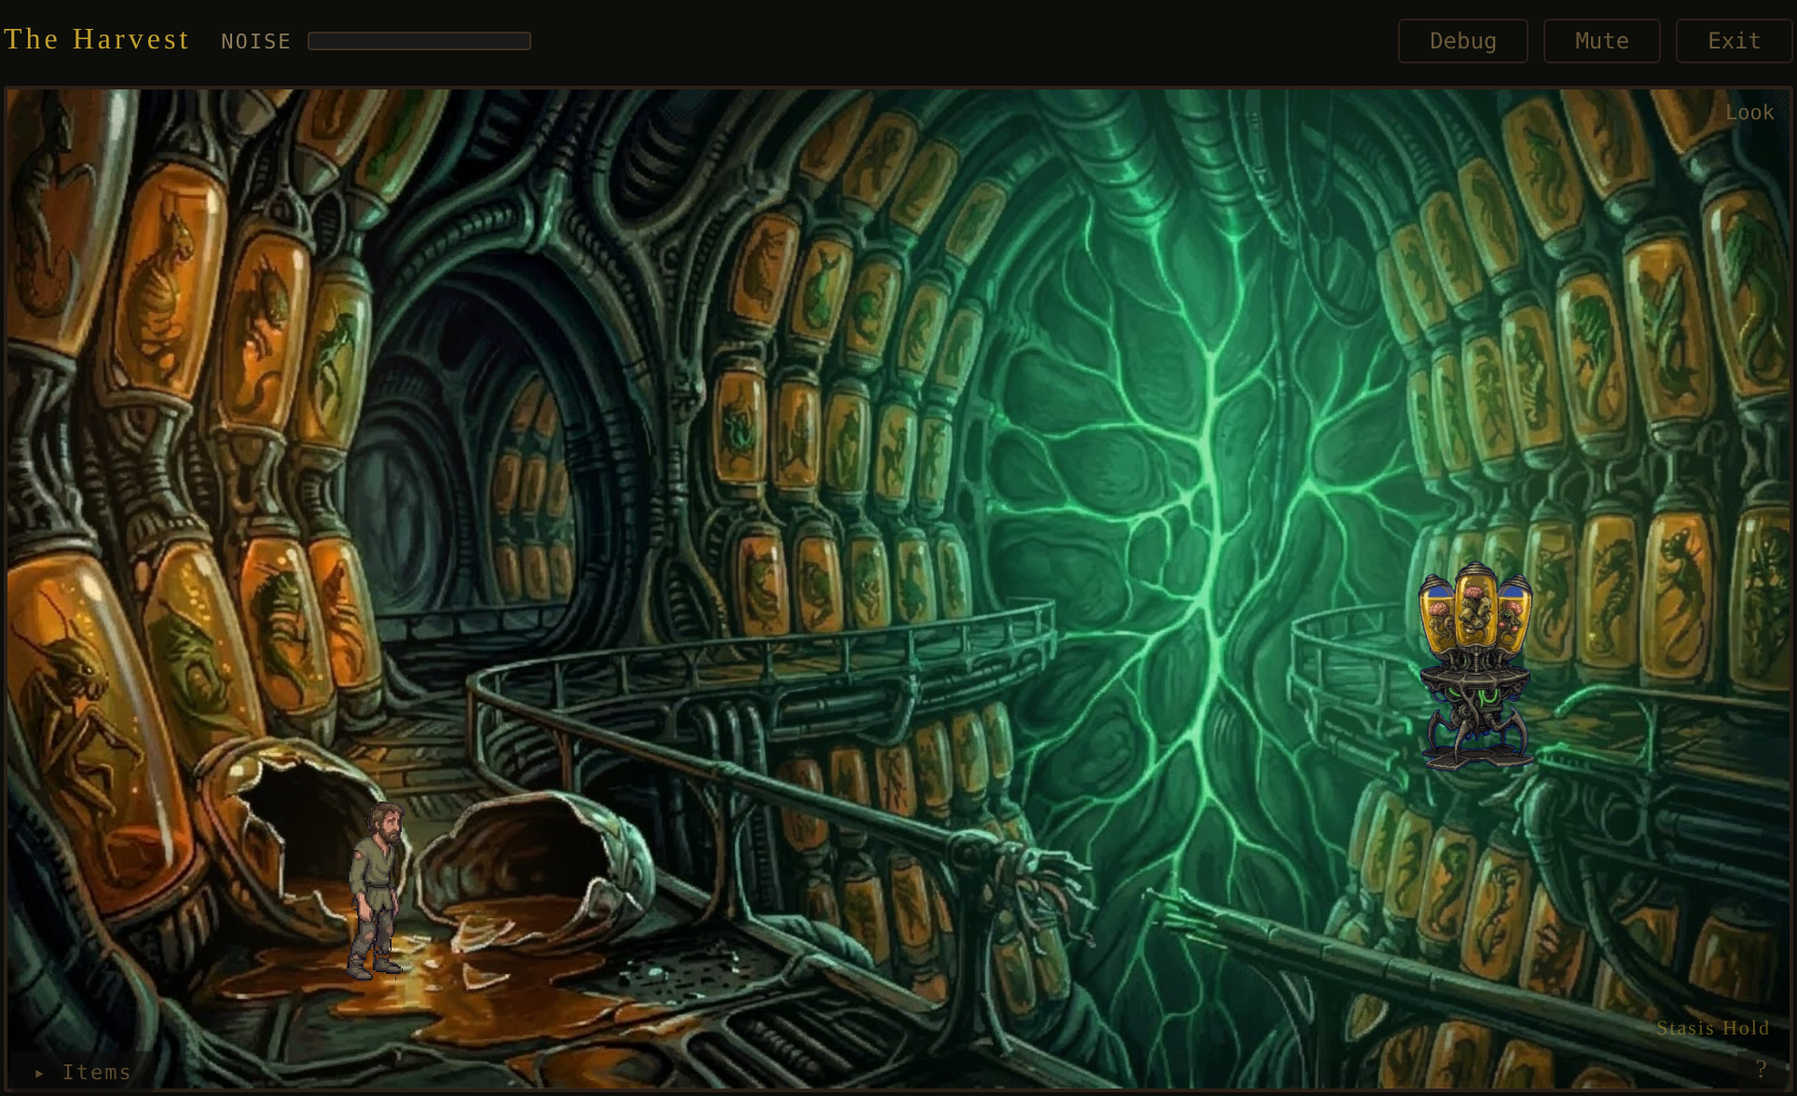
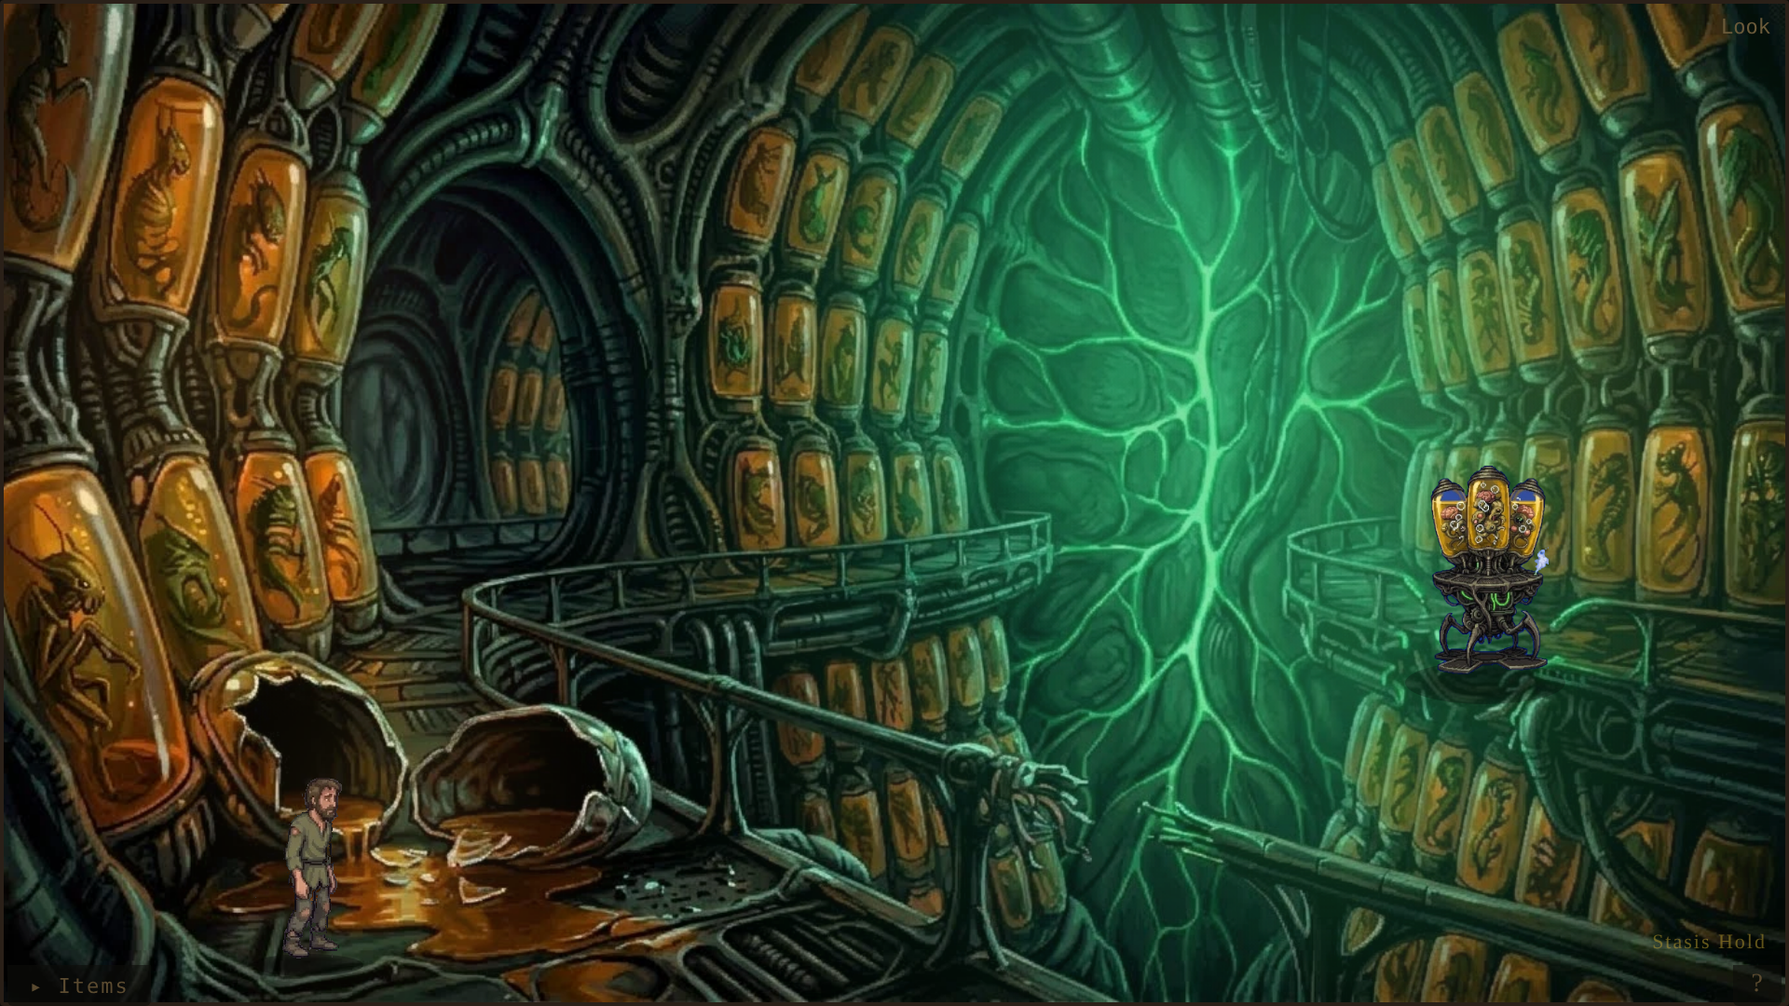
Fresh screenshots + documentation overhaul for polished GitHub presence
Screenshots (20 total):
- 10 game screenshots: all Act 1 rooms with character sprites, shadows,
  animated NPCs, room name labels, and immersive HUD
- 4 dev panel screenshots: Views, Objects, Character, Sprites tabs
- 3 editor screenshots: overview with sprites, hotspot layout, shadow sliders
- 3 updated from old versions

README.md:
- Updated hero screenshot captions to mention sprites and shadows
- Added Morgue + Specimen Archive/Airlock Bay screenshot pairs
- Added dev panel + editor screenshot gallery under Developer Tools
- Added Ambient Audio and Sprite Shadows feature sections
- Updated Act 1 details (11 items, per-room audio, directional shadows)
- Added Audio & Atmosphere to "What You Can Build" section
- Updated roadmap with completed items (audio, shadows, editor, voiceover)
- Added attribution for 4 new audio files

ADVENTURE_BUILDER.md:
- Added hero screenshot at top (Feeding Station with animated NPC)
- Added dev panel screenshots to Developer Tools section
- Added editor screenshots with shadow controls panel
- Updated shadow properties to document skew_x for directional shadows

TECHNICAL_DEEP_DIVE.md:
- Added hero screenshot (Objects inspector with debug overlays)
- Expanded Audio System to document per-view ambient audio overrides,
  crossfading, empty array for silence, and sound effects config

Claude-Session: https://claude.ai/code/session_013nLT1EESxv1f88E9FZS33G

diff --git a/README.md b/README.md
@@ -7,7 +7,7 @@ Drop a scenario JSON, background art, and audio into a folder. The engine render
 <p align="center">
   <img src="docs/images/screenshot-harvest-gameplay.png" width="800" alt="Gameplay — The Harvest, Act 1: Stasis Hold" />
   <br />
-  <em>The Harvest — waking beside a shattered stasis pod aboard an alien harvester ship</em>
+  <em>The Harvest — waking beside a shattered stasis pod aboard an alien harvester ship. Character sprites with directional shadows, animated cataloguer robot, immersive HUD overlay.</em>
 </p>
 
 ---
@@ -37,26 +37,33 @@ The engine is completely generic. It reads your JSON, builds the game state, ren
 <p align="center">
   <img src="docs/images/screenshot-corridor.png" width="800" alt="Containment Corridor" />
   <br />
-  <em>Containment Corridor — the central hub with five branching passages</em>
+  <em>Containment Corridor — the central hub with five branching passages, vent grate sprite, and a lurking shadow cat</em>
 </p>
 
 <p align="center">
   <img src="docs/images/screenshot-feeding-station.png" width="800" alt="Feeding Station with prisoner NPC" />
   <br />
-  <em>Feeding Station — animated prisoner NPC paces behind an energy barrier</em>
+  <em>Feeding Station — animated alien prisoner NPC behind an energy barrier with branching dialogue</em>
 </p>
 
 <p align="center">
-  <img src="docs/images/screenshot-interaction.png" width="800" alt="Closeup interaction with cataloguer robot" />
+  <img src="docs/images/screenshot-morgue.png" width="800" alt="Morgue — cold storage" />
   <br />
-  <em>Closeup overlay — examining the cataloguer robot's specimen tanks reveals a section code</em>
+  <em>Morgue — dead silence contrasts the ship's ambient hum. Specimen drawers and a neural tendril to collect.</em>
 </p>
 
 <p align="center">
   <img src="docs/images/screenshot-security-hub.png" width="400" alt="Security Hub" />
   <img src="docs/images/screenshot-processing-lab.png" width="400" alt="Processing Lab" />
   <br />
-  <em>Security Hub and Processing Lab — interconnected puzzle rooms</em>
+  <em>Security Hub and Processing Lab — interconnected puzzle rooms with distinct ambient audio</em>
+</p>
+
+<p align="center">
+  <img src="docs/images/screenshot-specimen-archive.png" width="400" alt="Specimen Archive" />
+  <img src="docs/images/screenshot-airlock.png" width="400" alt="Airlock Bay" />
+  <br />
+  <em>Specimen Archive (holographic display sprite) and Airlock Bay — the Act 1 finale</em>
 </p>
 
 ---
@@ -149,9 +156,11 @@ The schema supports **30+ proven design patterns** drawn from classic adventures
 
 **Narrative Systems** — Branching dialogue with conditional choices, multiple solution paths, progressive per-room hints, win/lose conditions with custom endings, phase-based story progression, ambient text and audio, closeup detail images.
 
-**Character & NPC Systems** — Sierra-style sprite sheet characters with animated walk cycles and static poses, object sprites for animated world entities (pacing prisoners, spinning holograms, scanning robots), per-view character placement, dynamic sprite changes via effects.
+**Character & NPC Systems** — Sierra-style sprite sheet characters with animated walk cycles and static poses, object sprites for animated world entities (pacing prisoners, spinning holograms, scanning robots), per-view character placement, dynamic sprite changes via effects, configurable directional shadows with per-view overrides.
 
-**Advanced Features** — AI antagonist (patrol timers, noise thresholds, evidence awareness, personality), stealth system (hiding spots, noise tracking, detection), timed events, hotspot animations (glimmer, pulse), ambient audio layers, 14 condition types with composites (`any_of`, `all_of`), 20+ effect types.
+**Audio & Atmosphere** — Per-room ambient audio with automatic crossfading on navigation, layered ambient tracks, sound effects on item pickup and room transitions, JSON-driven ambient lighting with pulsing light sources.
+
+**Advanced Features** — AI antagonist (patrol timers, noise thresholds, evidence awareness, personality), stealth system (hiding spots, noise tracking, detection), timed events, hotspot animations (glimmer, pulse), 14 condition types with composites (`any_of`, `all_of`), 20+ effect types.
 
 ---
 
@@ -182,12 +191,13 @@ The schema supports **30+ proven design patterns** drawn from classic adventures
 A full-length adventure spanning **5 acts, 49 views, and 7 possible endings** including a hidden ending that rewards empathy across the entire game. The player wakes in a stasis pod aboard an alien harvester ship, escapes containment, navigates the ship, descends to a dying planet, explores a dead city, and confronts the parasitic Convergence in its nexus.
 
 **Act 1 is fully playable** with:
-- **9 rooms** — Stasis Hold, Containment Corridor, Processing Lab, Security Hub, Feeding Station, Morgue, Specimen Archive, Ventilation Shaft, Airlock Bay
-- **9 collectible items** — pod glass shard, stasis fluid vial, specimen tag, surgical probe, containment key card, nutrient paste tube, severed neural tendril, personal log crystal, ventilation map
-- **Animated NPC** — caged prisoner with 4-frame pacing animation behind an energy barrier
+- **9 rooms + 1 closeup** — Stasis Hold, Containment Corridor, Processing Lab, Security Hub, Feeding Station, Morgue, Specimen Archive, Ventilation Shaft, Airlock Bay, plus an interactive cataloguer closeup sub-view
+- **11 collectible items** — pod glass shard, stasis fluid vial, specimen tag, surgical probe, containment key card, nutrient paste tube, severed neural tendril, personal log crystal, ventilation map, and more
+- **Animated NPCs** — caged alien prisoner (pacing animation), cataloguer robot (static sprite), holographic display (spinning planets), shadow cat, vent cover grate
 - **Branching dialogue** — 4-way conversation choices that set different bond values affecting future acts
 - **Puzzle chains** — cataloguer code → lab sequence → security override → vent access → airlock
-- **Closeup interactions** — specimen tanks, holographic displays
+- **Per-room ambient audio** — distinct soundscapes per room (lab ambience, industrial ventilation, eerie harmonics, dead silence in the morgue)
+- **Directional character shadows** — skewed to match each room's lighting
 - **Complete walkthrough** at [`scenarios/the-harvest/walkthrough.md`](scenarios/the-harvest/walkthrough.md)
 
 <p align="center">
@@ -206,10 +216,10 @@ A full-length adventure spanning **5 acts, 49 views, and 7 possible endings** in
 Messages overlay on the game viewport with a semi-transparent backdrop instead of a dedicated panel. Inventory is a collapsible drawer with a toggle tab. Progressive hints float at the corner. Room names appear subtly in gold text. No UI elements below the viewport — full immersion.
 
 ### Character Sprites
-Sierra-style sprite sheet rendering on top of backgrounds. Walk cycles, static poses, per-view placement, dynamic state changes. Characters are positioned in the 960&times;720 coordinate space and rendered with `image-rendering: pixelated` for crisp pixel art.
+Sierra-style sprite sheet rendering on top of backgrounds. Walk cycles, static poses, per-view placement, dynamic state changes via effects. Characters are positioned in the 960&times;720 coordinate space and rendered with `image-rendering: pixelated` for crisp pixel art. Configurable directional shadows with offset, opacity, size, and skew — global defaults with per-view overrides.
 
 ### Object Sprites
-Animated sprite sheets on world objects — pacing prisoners, spinning holograms, scanning robots. Defined via `sprite` field in object JSON with frame dimensions, animation rate, and scale. Bottom-center anchored for natural grounding.
+Animated sprite sheets on world objects — pacing prisoners, spinning holograms, scanning robots. Defined via `sprite` field in object JSON with frame dimensions, animation rate, and scale. Bottom-center anchored with JSON-configurable shadows matching the character shadow system.
 
 ### Closeup Overlays
 Detail images displayed in a dismissable framed overlay for examining objects up close. The cataloguer robot in The Harvest shows a three-tank specimen closeup with data plates revealing the section code needed for the processing lab keypad.
@@ -217,14 +227,34 @@ Detail images displayed in a dismissable framed overlay for examining objects up
 ### Dialogue Choices
 Branching conversation system via `show_dialogue` effect. Each choice has a label, optional visibility conditions, and its own chain of effects. The prisoner in The Harvest's feeding station offers 4 dialogue paths that set different `prisoner_bond` values affecting all subsequent interactions.
 
+### Ambient Audio
+Per-room audio with automatic crossfading on view transitions. Each view can override the scenario-level ambient track — the Morgue uses dead silence for contrast, the Security Hub plays eerie harmonics, and the Processing Lab hums with gentle lab equipment. Sound effects fire on item pickup, room transitions, and intro narration. All audio paths defined in JSON.
+
+### Sprite Shadows
+All sprites (character and object) support JSON-configurable shadows with offset, opacity, size, and directional skew. Set a global default on the character config and override per-view to match each room's lighting angle. The visual editor provides real-time shadow sliders for fine-tuning.
+
 ### Progressive Hints
 Per-view hint arrays in the scenario JSON. The engine evaluates conditions and returns the most specific matching hint. A floating "?" button shows hints as a message overlay. Players can never softlock — hints always point toward the next step.
 
 ### Developer Tools
 Two built-in tools for scenario authors:
 
-- **In-game Dev Panel** (`?dev` URL param) — collapsible side panel with 5 tabs: Views (jump to any view), Objects (position/size/visibility inspector), Character (live sprite animation preview with facing/sprite_set controls), Sprites (browse all sprite sheets with animation), Export (paste-to-Claude position data). Auto-enables debug hitbox overlays and skips intro.
-- **Visual Editor** (`/editor.html`) — standalone visual editor with actual animated sprite rendering. Shows character and object sprites on backgrounds (matching the in-game rendering), draggable/resizable hotspot boxes, character controls panel (sprite set, facing direction, animation play/pause), toggleable hotspot/sprite overlays, live coordinate display, and 3-tab export (human-readable changes, JSON patch, full view JSON). Draw new hotspot areas directly on backgrounds.
+- **In-game Dev Panel** (`?dev` URL param) — collapsible side panel with 5 tabs: Views (jump to any view with metadata badges), Objects (position/size/visibility/state inspector), Character (live sprite animation preview), Sprites (browse all sprite sheets), Export (copy-to-clipboard position data). Auto-enables debug hitbox overlays and skips intro.
+- **Visual Editor** (`/editor.html`) — standalone visual editor with actual animated sprite rendering. Drag/resize hotspot boxes, position character and object sprites, adjust shadow properties with real-time sliders, toggle overlays, and export changes in 3 formats.
+
+<p align="center">
+  <img src="docs/images/screenshot-dev-panel.png" width="400" alt="Dev Panel — Views tab" />
+  <img src="docs/images/screenshot-dev-objects.png" width="400" alt="Dev Panel — Objects tab" />
+  <br />
+  <em>Dev Panel: Views tab (50 views with metadata) and Objects tab (hotspot inspector with debug overlays)</em>
+</p>
+
+<p align="center">
+  <img src="docs/images/screenshot-dev-sprites.png" width="400" alt="Dev Panel — Sprites browser" />
+  <img src="docs/images/screenshot-editor-overview.png" width="400" alt="Visual Editor" />
+  <br />
+  <em>Sprites browser (animated previews of all 8 sprite sheets) and Visual Editor (drag hotspots, position sprites, export JSON)</em>
+</p>
 
 ---
 
@@ -341,7 +371,11 @@ adventure-engine/
 - [x] Immersive HUD (overlay messages, collapsible inventory, ambient text)
 - [x] Room name labels in viewport
 - [x] Back navigation for closeup views
-- [x] Act 1 of The Harvest fully solvable (9 rooms, 9 items, walkthrough)
+- [x] Act 1 of The Harvest fully solvable (10 views, 11 items, walkthrough)
+- [x] Per-room ambient audio with crossfading
+- [x] Sprite shadow system (directional shadows with per-view overrides)
+- [x] Visual editor with shadow sliders and sprite positioning
+- [x] Voiceover narration tooling (ElevenLabs TTS batch generator)
 - [ ] Item icon images in inventory panel
 - [ ] Events system (timed/conditional narrative beats)
 - [ ] Puzzle widget UI components
@@ -363,6 +397,10 @@ adventure-engine/
   - [control_room.wav](https://freesound.org/s/211683/) by Diboz — License: [Creative Commons 0](https://creativecommons.org/publicdomain/zero/1.0/)
   - [Kaiju Lab Interior Ambience #1.wav](https://freesound.org/s/191852/) by Vortex4 — License: [Creative Commons 0](https://creativecommons.org/publicdomain/zero/1.0/)
   - [Cinematic Deep Rumble](https://freesound.org/s/184313/) by swiftoid — License: [Creative Commons 0](https://creativecommons.org/publicdomain/zero/1.0/)
+- **Cold fridge hum** (`ambient_cold.wav`): [Fridge 2](https://freesound.org/people/freekit/) by freekit — License: [Attribution 4.0](https://creativecommons.org/licenses/by/4.0/)
+- **Industrial ventilation** (`ambient_industrial.wav`): Large ventilation system by kevp888 — License: [Attribution 4.0](https://creativecommons.org/licenses/by/4.0/)
+- **Eerie ambient** (`haunted.wav`): Haunted by RCH (2015)
+- **Stargazer ambient** (`ambient_vastness.wav`): Stargazer remix of Tim Kahn's freesound #702910 by Timbre — License: [Attribution NonCommercial 4.0](https://creativecommons.org/licenses/by-nc/4.0/)
 
 ---
 

diff --git a/ADVENTURE_BUILDER.md b/ADVENTURE_BUILDER.md
@@ -3,6 +3,12 @@
 > **Create point-and-click adventure games without writing any code.**
 > Define your game in a single JSON file, drop in background art and audio, and it's playable.
 
+<p align="center">
+  <img src="docs/images/screenshot-feeding-station.png" width="800" alt="The Harvest — Feeding Station with animated NPC" />
+  <br />
+  <em>Everything in this scene — the room, the prisoner, the energy barrier, the dialogue, the puzzles — is defined in a single JSON file.</em>
+</p>
+
 This guide covers everything you need to build a scenario package for the Adventure Engine. You don't need to understand the engine's source code — the JSON schema is the product.
 
 ---
@@ -1298,6 +1304,19 @@ This opens a 340px side panel with 5 tabs:
 
 Dev mode auto-enables debug mode (visible hotspot outlines) and skips the intro sequence.
 
+<p align="center">
+  <img src="docs/images/screenshot-dev-panel.png" width="400" alt="Dev Panel — Views tab" />
+  <img src="docs/images/screenshot-dev-objects.png" width="400" alt="Dev Panel — Objects inspector" />
+  <br />
+  <em>Dev Panel: Views tab with metadata badges (left) and Objects inspector showing hotspot positions, sizes, and states (right)</em>
+</p>
+
+<p align="center">
+  <img src="docs/images/screenshot-dev-sprites.png" width="800" alt="Dev Panel — Sprites browser" />
+  <br />
+  <em>Sprites tab: browse all sprite sheets with live animated previews, frame counts, and scale info</em>
+</p>
+
 ### Standalone Visual Editor (`/editor.html`)
 
 A full visual editor for drawing hotspot boxes, positioning sprites, and previewing animations on top of your actual background images:
@@ -1312,11 +1331,25 @@ Features:
 - **Draw hotspot boxes** — click and drag to create/resize object hotspot rectangles
 - **Drag sprites** — reposition character and object sprites by dragging them
 - **Character controls** — dropdown for sprite set and facing direction, play/pause animation
+- **Shadow controls** — real-time sliders for offset, opacity, width, height, and directional skew per sprite per view
 - **Toggle overlays** — show/hide hotspot boxes and sprite overlays independently
 - **Coordinate readout** — live 960x720 coordinates as you move the mouse
 - **3-tab export** — human-readable changes, JSON patch, and full view JSON
 
 The editor reads your scenario JSON and renders everything the game engine would render, but lets you visually adjust positions and export the changes.
+
+<p align="center">
+  <img src="docs/images/screenshot-editor-overview.png" width="800" alt="Visual Editor — overview with sprites and hotspots" />
+  <br />
+  <em>Visual Editor showing the Feeding Station with animated prisoner sprite, character preview panel, and labeled hotspot boxes</em>
+</p>
+
+<p align="center">
+  <img src="docs/images/screenshot-editor-hotspots.png" width="400" alt="Visual Editor — hotspot layout" />
+  <img src="docs/images/screenshot-editor-shadows.png" width="400" alt="Visual Editor — shadow controls" />
+  <br />
+  <em>Objects list with hotspot inspector (left) and shadow control sliders for fine-tuning sprite shadows (right)</em>
+</p>
 
 ### Debug Mode (`?debug`)
 
@@ -1515,7 +1548,7 @@ Any sprite (character or object) can have a shadow ellipse rendered beneath it t
 }
 ```
 
-Shadow properties: `offset_x` (horizontal shift), `offset_y` (vertical shift, positive = down), `width`, `height`, `opacity` (0–1), `color` (CSS color string). All optional with sensible defaults. Use the visual editor's shadow sliders to dial in values.
+Shadow properties: `offset_x` (horizontal shift in screen pixels), `offset_y` (vertical shift, negative = closer to sprite feet), `width`, `height`, `opacity` (0–1), `color` (CSS color string), `skew_x` (degrees, directional shadow — positive = light from left, negative = light from right). All optional with sensible defaults. Use the visual editor's shadow sliders (including Skew X) to dial in values per view.
 
 #### Splicing Tool
 

diff --git a/TECHNICAL_DEEP_DIVE.md b/TECHNICAL_DEEP_DIVE.md
@@ -6,6 +6,12 @@
 > For how to build a scenario package, see [`ADVENTURE_BUILDER.md`](ADVENTURE_BUILDER.md).
 > For the project overview, see the [`README`](README.md).
 
+<p align="center">
+  <img src="docs/images/screenshot-dev-objects.png" width="800" alt="Debug mode — Objects inspector with hotspot overlays" />
+  <br />
+  <em>Engine internals exposed: debug hitbox overlays, object state inspector, interaction counts, and sprite metadata — all driven by the scenario JSON.</em>
+</p>
+
 ---
 
 ## Table of Contents
@@ -647,7 +653,9 @@ When reviewing or generating object positions:
 
 ## Audio System
 
-Ambient audio is entirely schema-driven. Any scenario can specify audio files in its `setting`:
+Ambient audio is entirely schema-driven. The system supports two levels of audio configuration:
+
+**Scenario-level default** — applies to all views unless overridden:
 
 ```json
 {
@@ -667,33 +675,42 @@ Or multiple layered tracks:
 }
 ```
 
-### Implementation (ScenarioPlayer.tsx)
+**Per-view overrides** — each view can specify its own `ambient_audio` that replaces the scenario default when the player enters that room:
 
-Audio elements are created in a `useEffect` when the scenario loads:
-
-```typescript
-useEffect(() => {
-  const raw = scenario.setting.ambient_audio;
-  if (!raw) return;
-  const files = Array.isArray(raw) ? raw : [raw];
-  const elements: HTMLAudioElement[] = [];
-  for (const file of files) {
-    const audio = new Audio(`/scenarios/${scenarioId}/${file}`);
-    audio.loop = true;
-    audio.volume = 0.35;
-    audio.play().catch(() => {});
-    elements.push(audio);
-  }
-  audioRefs.current = elements;
-  return () => { /* pause and cleanup */ };
-}, [scenario]);
+```json
+{
+  "id": "morgue",
+  "ambient_audio": [],
+  "background_key": "morgue"
+}
 ```
 
-- **Looping**: all tracks loop continuously
+An empty array `[]` means dead silence. When navigating between views with different audio, the engine crossfades — stopping the old tracks and starting the new ones. Views without an `ambient_audio` field inherit the scenario-level default.
+
+**Sound effects** — optional `setting.sounds` object with paths for `room_transition`, `item_pickup`, and `intro_voice`. The engine plays these on the corresponding events:
+
+```json
+{
+  "setting": {
+    "sounds": {
+      "room_transition": "audio/door_open_close.wav",
+      "item_pickup": "audio/item_pickup.wav"
+    }
+  }
+}
+```
+
+### Implementation (ScenarioPlayer.tsx)
+
+Audio elements are created and managed in `useEffect` hooks. The ambient audio effect reacts to view changes, comparing the current view's track list against the previous one:
+
+- **Per-view switching**: when the player navigates to a view with different `ambient_audio`, the old tracks are paused and new ones start
+- **Looping**: all ambient tracks loop continuously
 - **Volume**: 0.35 (35%) — ambient, not dominant
-- **Mute toggle**: a Mute/Unmute button appears when `ambient_audio` is defined
+- **Mute toggle**: a Mute/Unmute button appears when any `ambient_audio` is defined
 - **Cleanup**: on unmount, all audio elements are paused and their `src` is cleared
 - **Autoplay**: `.play().catch(() => {})` silently handles browsers that block autoplay
+- **Asset resolution**: all audio paths route through `resolveAsset()` for CDN portability
 
 ### Asset Serving
 
